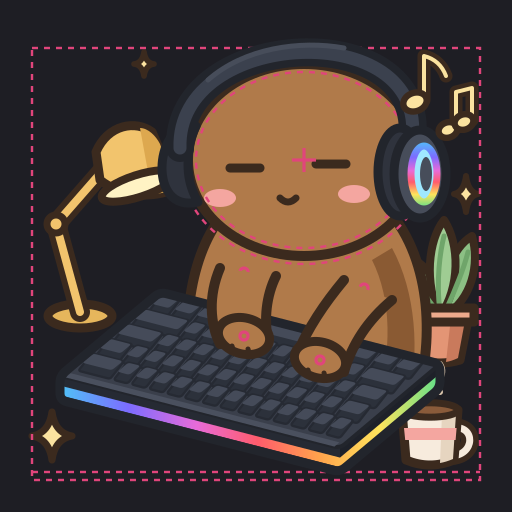
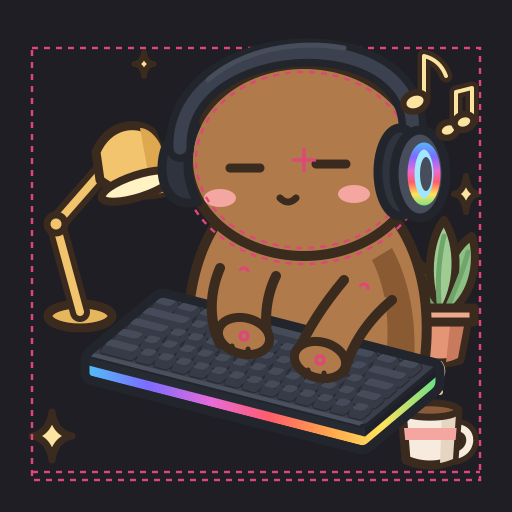
art: foreshortened keyboard (front edge pulled in, back edge where paws rest unchanged) with tapered keycaps and a darker viewer-facing side

Changed region(s): [[0.125, 0.5938, 0.7812, 0.9375]]

diff --git a/scripts/gen_keyboard.py b/scripts/gen_keyboard.py
@@ -13,13 +13,15 @@ OUT = Path(__file__).resolve().parent.parent / "art" / "_shared" / "keyboard.svg
 KEYS_OUT = OUT.with_name("keyboard_keys.json")
 
 # Case top face corners (see SPEC "Canvas geometry").
-FL = (30.0, 188.0)        # front-left
-FR = (170.0, 224.0)       # front-right
+# The back edge (where the animals' paws rest) is fixed; the front edge sits a quarter of the old
+# depth closer so rows are foreshortened like a board seen from above, not stretched.
+FL = (42.5, 177.5)        # front-left
+FR = (182.5, 213.5)       # front-right
 BL = (80.0, 146.0)        # back-left
 DEPTH = 12.0              # case thickness (front and right faces drop straight down)
 # Key grid inside the case, in key units.
 COLS, ROWS = 15.0, 5.0
-MARGIN_S, MARGIN_FRONT, MARGIN_BACK = 0.42, 0.42, 0.30
+MARGIN_S, MARGIN_FRONT, MARGIN_BACK = 0.42, 0.36, 0.60
 SPAN_S = COLS + 2 * MARGIN_S
 SPAN_T = ROWS + MARGIN_FRONT + MARGIN_BACK
 U = ((FR[0] - FL[0]) / SPAN_S, (FR[1] - FL[1]) / SPAN_S)
@@ -58,6 +60,7 @@ LINE_MAIN, LINE_KEY = 4.5, 2.0
 # theme token placeholders (art/_shared/themes.json)
 GEAR_LINE, KB_CASE, KB_CASE_HI, KB_SIDE, KB_SIDE_DARK = "#22252C", "#3A3F4B", "#4A505E", "#262A33", "#1E2129"
 KEYCAP, KEYCAP_SIDE, KEYCAP_LEGEND = "#454B59", "#2C313B", "#B8C0CC"
+KEYCAP_FRONT = "#363B47"
 
 
 def P(s, t, dy=0.0):
@@ -71,6 +74,20 @@ def case(s, t, dy=0.0):
     """Case-unit coordinates (0..1 along each case edge) to viewBox."""
     return (FL[0] + s * SPAN_S * U[0] + t * SPAN_T * V[0],
             FL[1] + s * SPAN_S * U[1] + t * SPAN_T * V[1] + dy)
+
+
+def hull(pts):
+    """Convex hull (monotone chain), counter-clockwise."""
+    pts = sorted(set(pts))
+    def half(seq):
+        out = []
+        for p in seq:
+            while len(out) >= 2 and ((out[-1][0] - out[-2][0]) * (p[1] - out[-2][1]) - (out[-1][1] - out[-2][1]) * (p[0] - out[-2][0])) <= 0:
+                out.pop()
+            out.append(p)
+        return out
+    lo, hi = half(pts), half(reversed(pts))
+    return lo[:-1] + hi[:-1]
 
 
 def f(p):
@@ -114,7 +131,7 @@ def main():
     # Top-face highlight rim along the front edge of the case top.
     rim = poly([case(0.02, 0.0), case(0.98, 0.0), case(0.98, 0.05), case(0.02, 0.05)])
 
-    skirts, tops, legends = [], [], []
+    skirts, fronts, tops, legends = [], [], [], []
     for trow, twidths in enumerate(ROW_LAYOUT):
         # viewer row 0 (front) is the typist's far row; viewer left-to-right is typist right-to-left
         row = len(ROW_LAYOUT) - 1 - trow
@@ -123,17 +140,21 @@ def main():
         t0, t1 = row + GAP, row + 1 - GAP
         for i, w in enumerate(widths):
             s0, s1 = s + GAP, s + w - GAP
-            # keycap body: from the footprint's front edge up to the raised top's back edge, so only a
-            # thin front lip shows under each cap top
-            skirts.append(rounded([P(s0, t0), P(s1, t0), P(s1, t1, -CAP_RISE), P(s0, t1, -CAP_RISE)], 1.4))
-            ti = 0.06
-            tops.append(rounded([P(s0 + ti, t0 + CAP_FRONT, -CAP_RISE), P(s1 - ti, t0 + CAP_FRONT, -CAP_RISE),
-                                 P(s1 - ti, t1 - 0.02, -CAP_RISE), P(s0 + ti, t1 - 0.02, -CAP_RISE)], 1.4))
+            # tapered keycap: a footprint on the plate and a smaller dished top raised above it; the body
+            # is the hull of the two, and its viewer-facing sides (front + right) get a darker face
+            ti_s, ti_f, ti_b = 0.08, 0.20, 0.04
+            base = [P(s0, t0), P(s1, t0), P(s1, t1), P(s0, t1)]
+            topq = [P(s0 + ti_s, t0 + ti_f, -CAP_RISE), P(s1 - ti_s, t0 + ti_f, -CAP_RISE),
+                    P(s1 - ti_s, t1 - ti_b, -CAP_RISE), P(s0 + ti_s, t1 - ti_b, -CAP_RISE)]
+            skirts.append(rounded(hull(base + topq), 1.6))
+            fronts.append(rounded([base[0], base[1], topq[1], topq[0]], 0.8))
+            fronts.append(rounded([base[1], base[2], topq[2], topq[1]], 0.8))
+            tops.append(rounded(topq, 1.5))
             ti_ = len(widths) - 1 - i          # index in the typist's left-to-right order
             label = LEGENDS[trow][ti_]
             if label:
                 # centre of the keycap top face; the glyph's x axis runs along U, its "up" along V
-                cx, cy = P((s0 + s1) / 2, (t0 + CAP_FRONT + t1 - 0.02) / 2, -CAP_RISE)
+                cx, cy = P((s0 + s1) / 2, (t0 + ti_f + t1 - ti_b) / 2, -CAP_RISE)
                 legends.append({"row": trow, "index": ti_, "label": label,
                                 "center": [round(cx, 2), round(cy, 2)],
                                 "em": LEGEND_EM_CHAR if len(label) == 1 else LEGEND_EM_WORD,
@@ -161,6 +182,7 @@ def main():
   <path d="{top}" fill="{KB_CASE}" stroke="{GEAR_LINE}" stroke-width="{LINE_KEY}" stroke-linejoin="round"/>
   <path d="{rim}" fill="{KB_CASE_HI}"/>
   <path d="{''.join(skirts)}" fill="{KEYCAP_SIDE}" stroke="{KB_SIDE}" stroke-width="1.2" stroke-linejoin="round"/>
+  <path d="{''.join(fronts)}" fill="{KEYCAP_FRONT}"/>
   <path d="{''.join(tops)}" fill="{KEYCAP}"/>
   <path d="{silhouette}" fill="none" stroke="{GEAR_LINE}" stroke-width="{LINE_MAIN}" stroke-linejoin="round"/>
 </svg>

diff --git a/scripts/check_arms.py b/scripts/check_arms.py
@@ -28,8 +28,8 @@ from PIL import Image, ImageChops, ImageDraw, ImageFilter
 sys.path.insert(0, str(Path(__file__).resolve().parent))
 import render_art as ra  # noqa: E402
 
-# Keyboard case geometry at the default placement (scripts/gen_keyboard.py).
-FL, FR, BL = (30.0, 188.0), (170.0, 224.0), (80.0, 146.0)
+# Keyboard case geometry at the default placement, shared with scripts/gen_keyboard.py.
+from gen_keyboard import FL, FR, BL  # noqa: E402
 BR = (FR[0] + BL[0] - FL[0], FR[1] + BL[1] - FL[1])
 DEPTH = 12.0
 UNDER_TOLERANCE = 12        # outline px (at 256 px canvas scale) of arm hidden under the board next to a paw

diff --git a/art/SPEC.md b/art/SPEC.md
@@ -33,9 +33,10 @@ penguin, a long low capybara, an upright shiba. Don't squeeze it into another an
 
 ### Shared defaults (`_shared/`)
 
-`_shared/keyboard.svg` is drawn at a default placement (desk line y = 236; case top corners
-front-left (30,188), front-right (170,224), back-right (220,182), back-left (80,146); back edge
-y = 146 + 0.257·(x − 80); key grid K(s,t) = (37.4,185.9) + s·(8.84,2.27) + t·(8.74,−7.34)).
+`_shared/keyboard.svg` is drawn at a default placement (desk line y = 225.5; case top corners
+front-left (42.5,177.5), front-right (182.5,213.5), back-right (220,182), back-left (80,146); back
+edge y = 146 + 0.257·(x − 80), unchanged from the first version so paws still land on the back rows).
+The exact key grid is in `_shared/keyboard_keys.json` and `scripts/gen_keyboard.py`.
 `scripts/gen_keyboard.py` generates it. `_shared/reference_pose*.svg` is one example of an animal
 fitted to that default. It is **only an example**; don't copy its bean shape.
 
